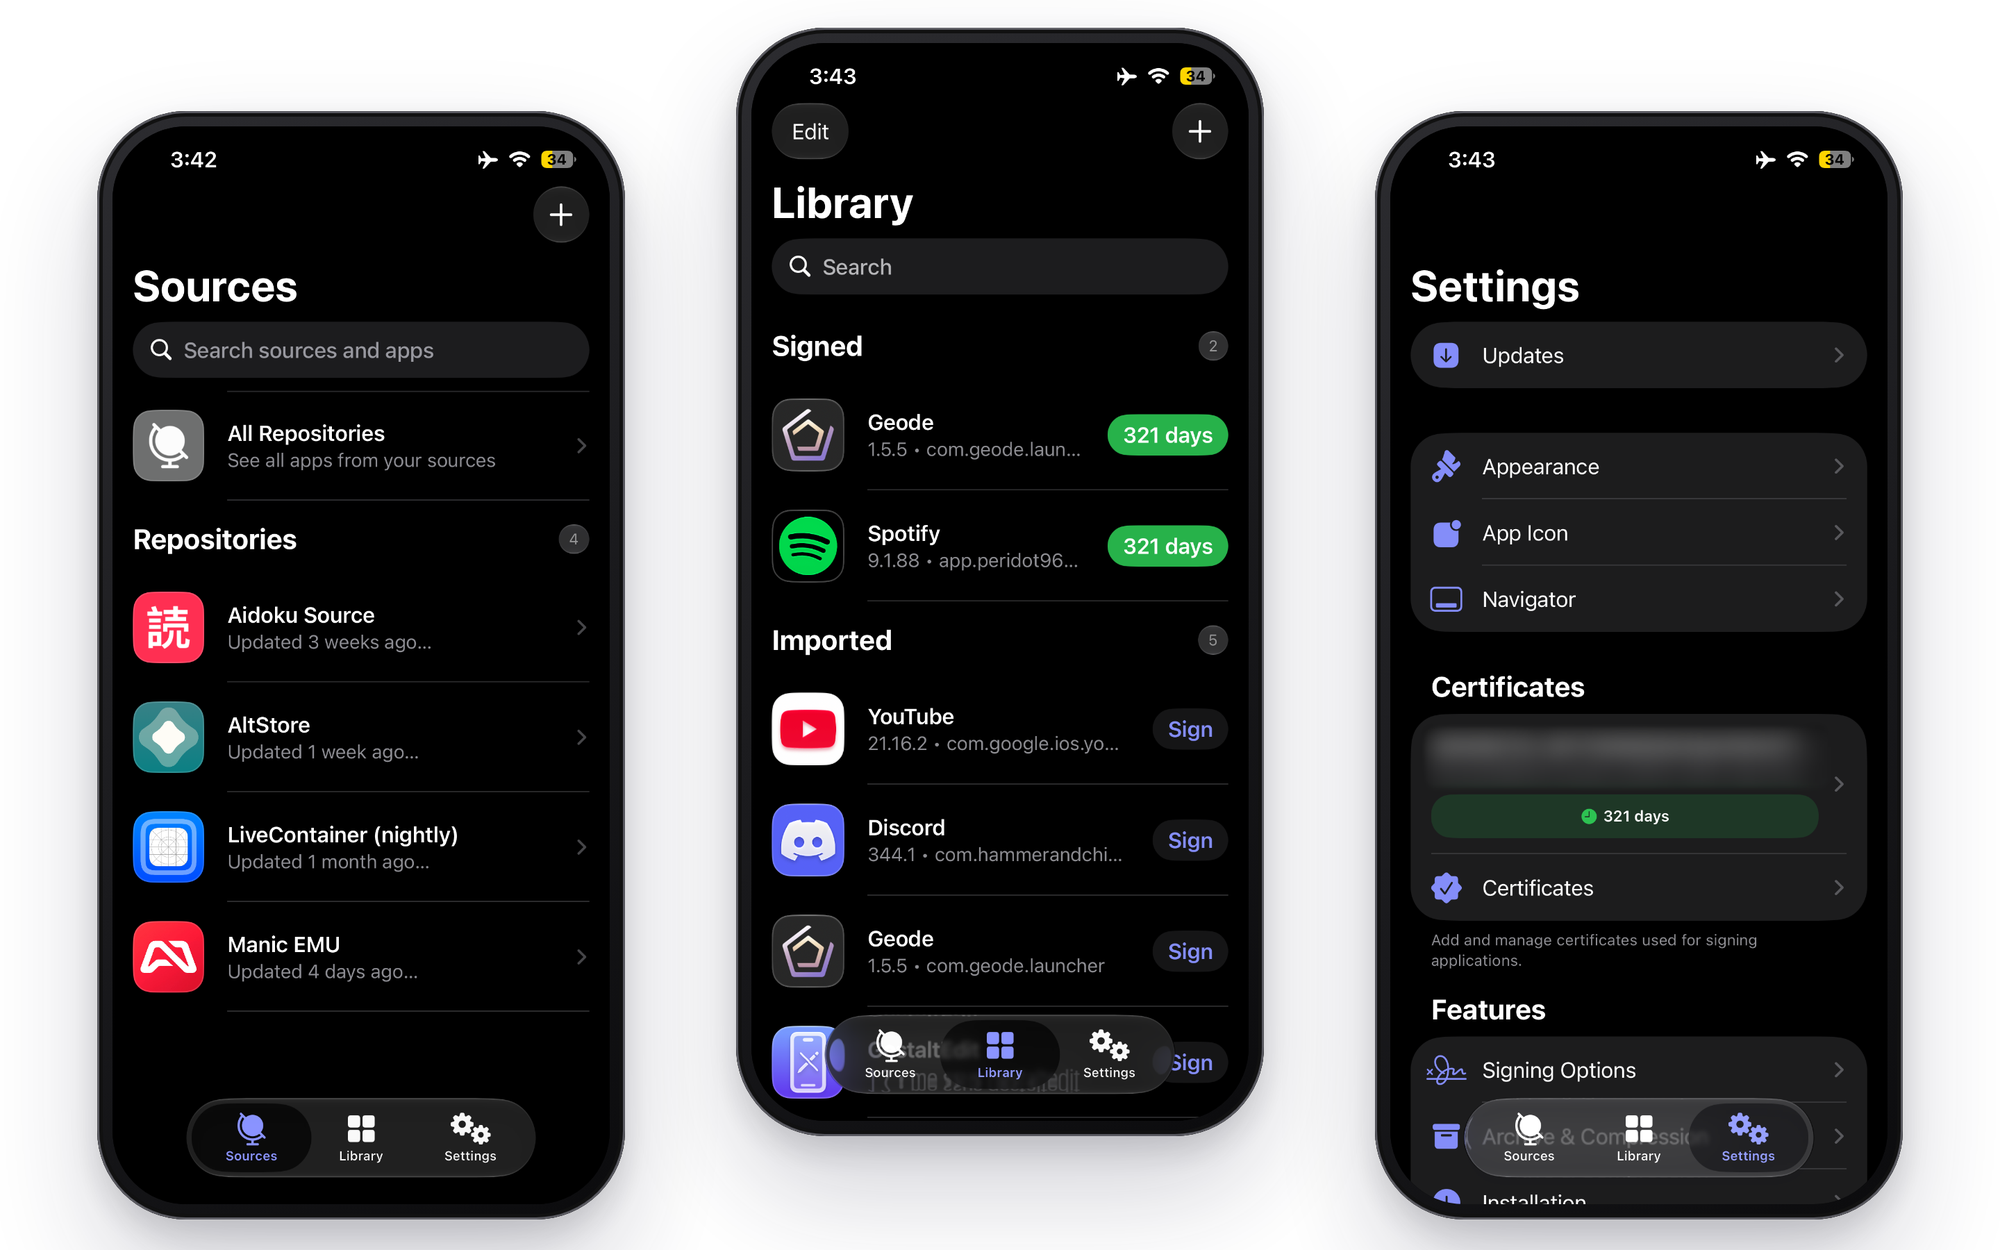
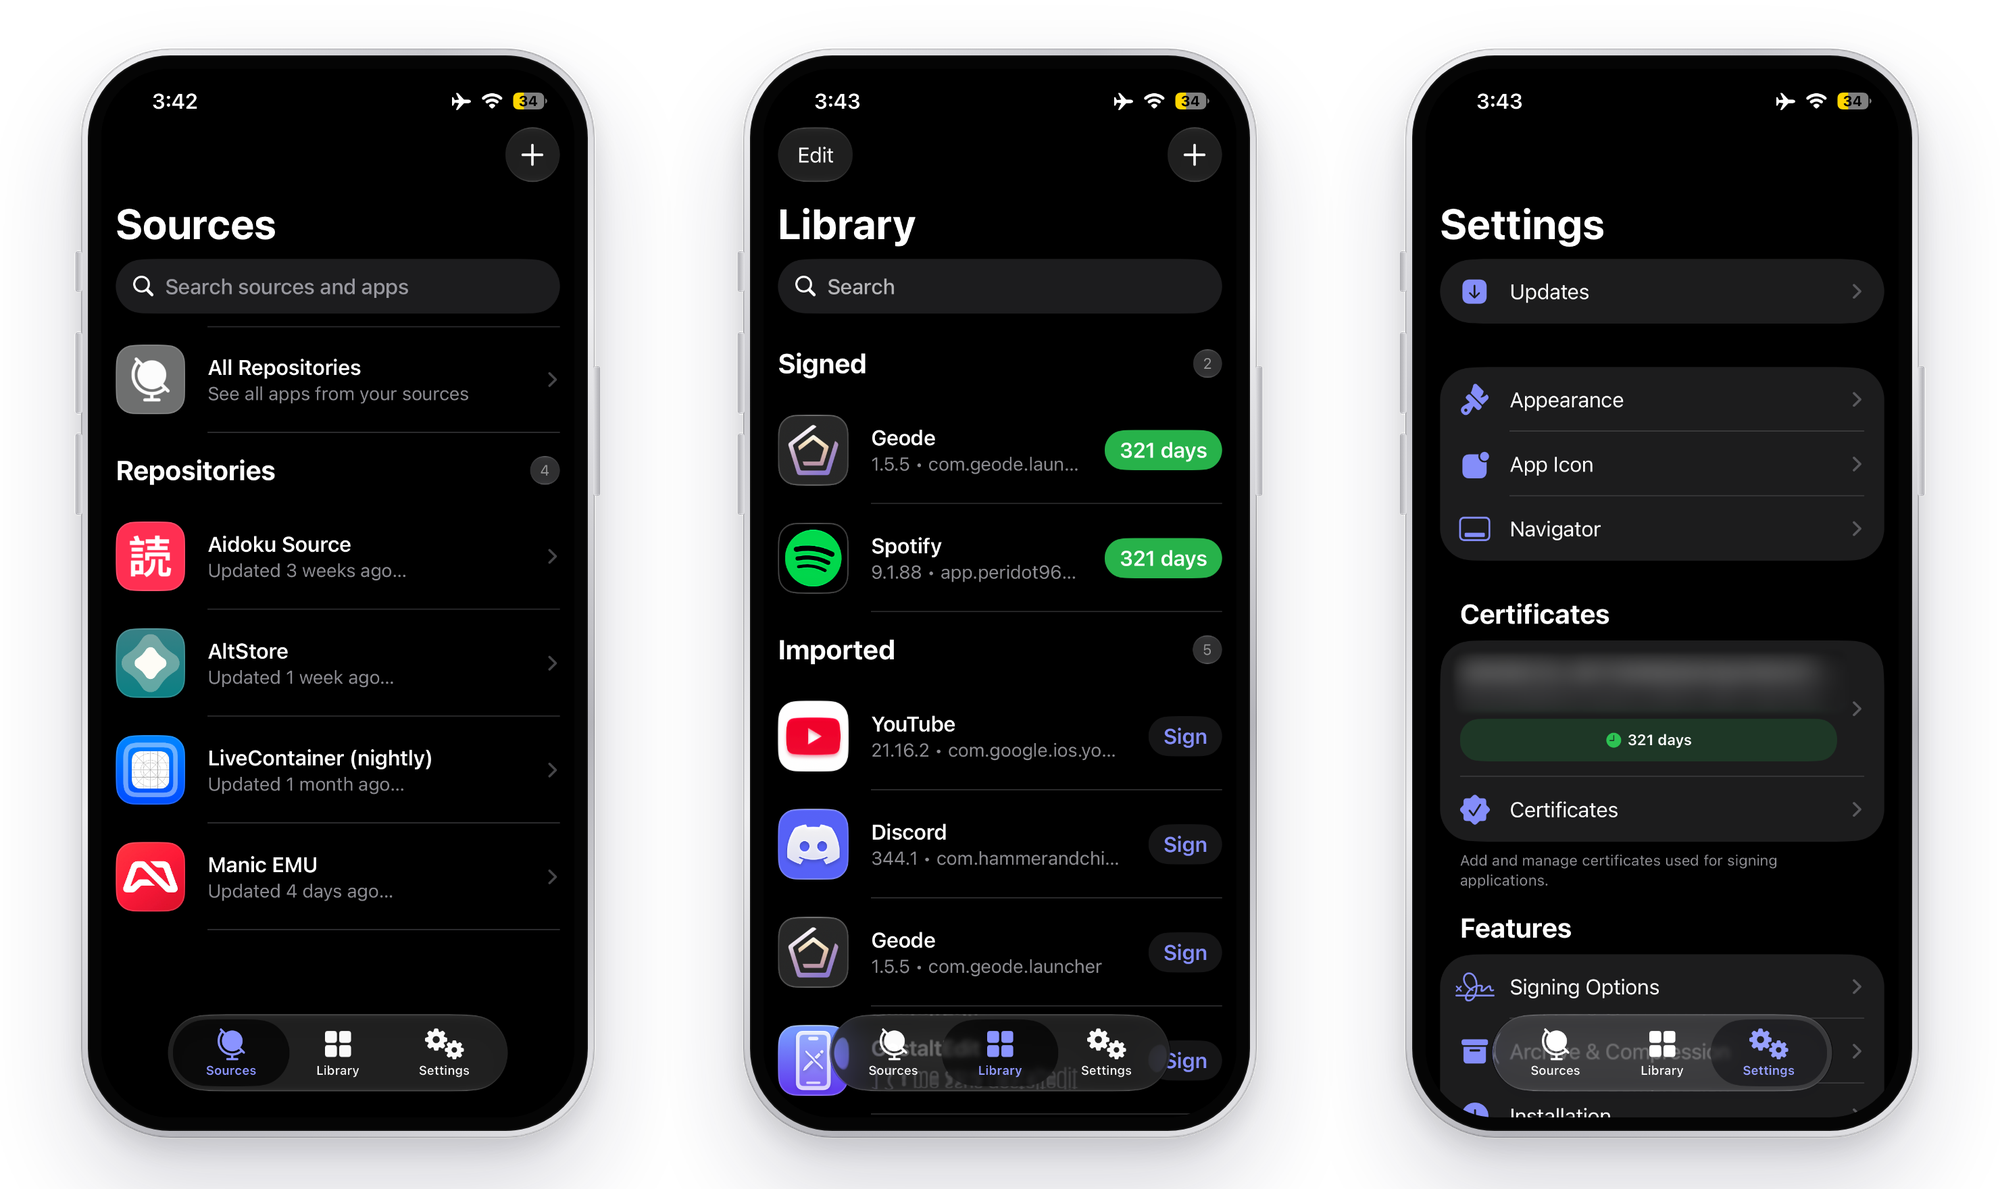
Website: line up the three iPhones and give them metal frames
Claude-Session: https://claude.ai/code/session_01ABLsRBC4XJowNWtyXUQB5f

diff --git a/website/index.html b/website/index.html
@@ -278,7 +278,7 @@ footer a:hover { color: var(--text); }
     <div class="devices reveal">
       <picture>
         <source srcset="assets/screenshot.webp" type="image/webp">
-        <img src="assets/screenshot.png" alt="Feather on three iPhones, showing Sources, Library and Settings" width="2000" height="1250">
+        <img src="assets/screenshot.png" alt="Feather on three iPhones, showing Sources, Library and Settings" width="2000" height="1189">
       </picture>
     </div>
   </div>
